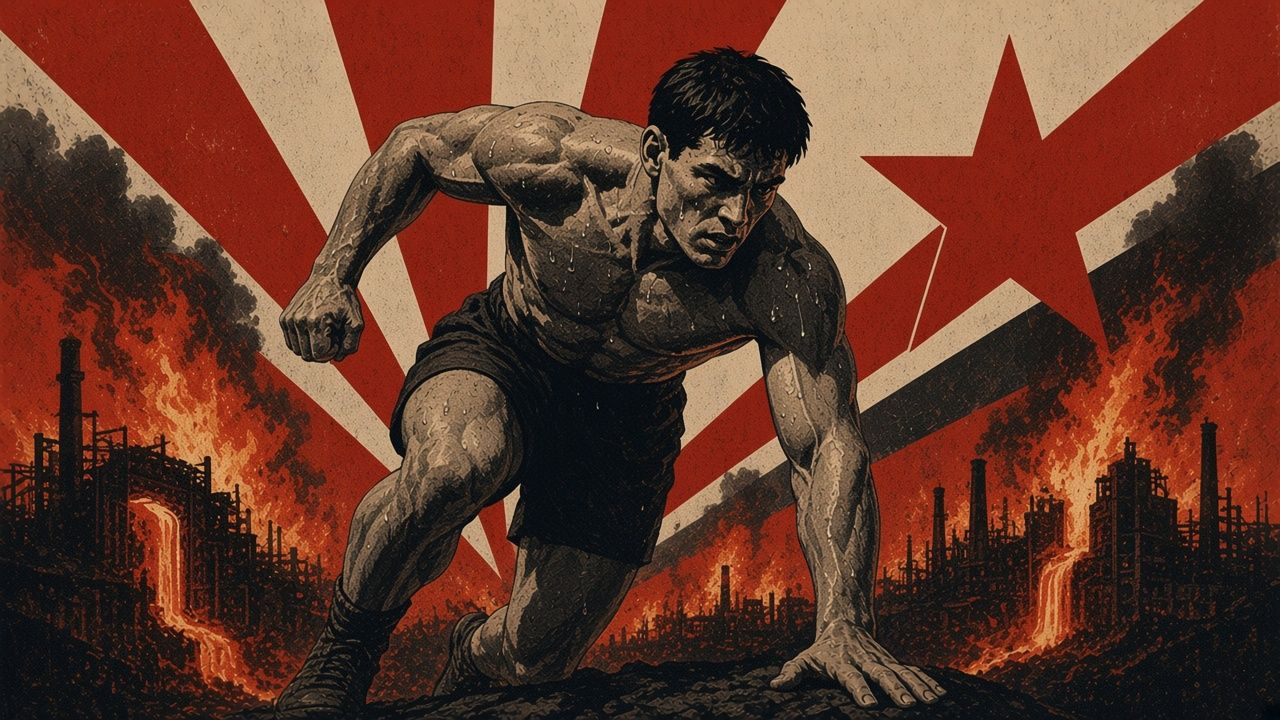
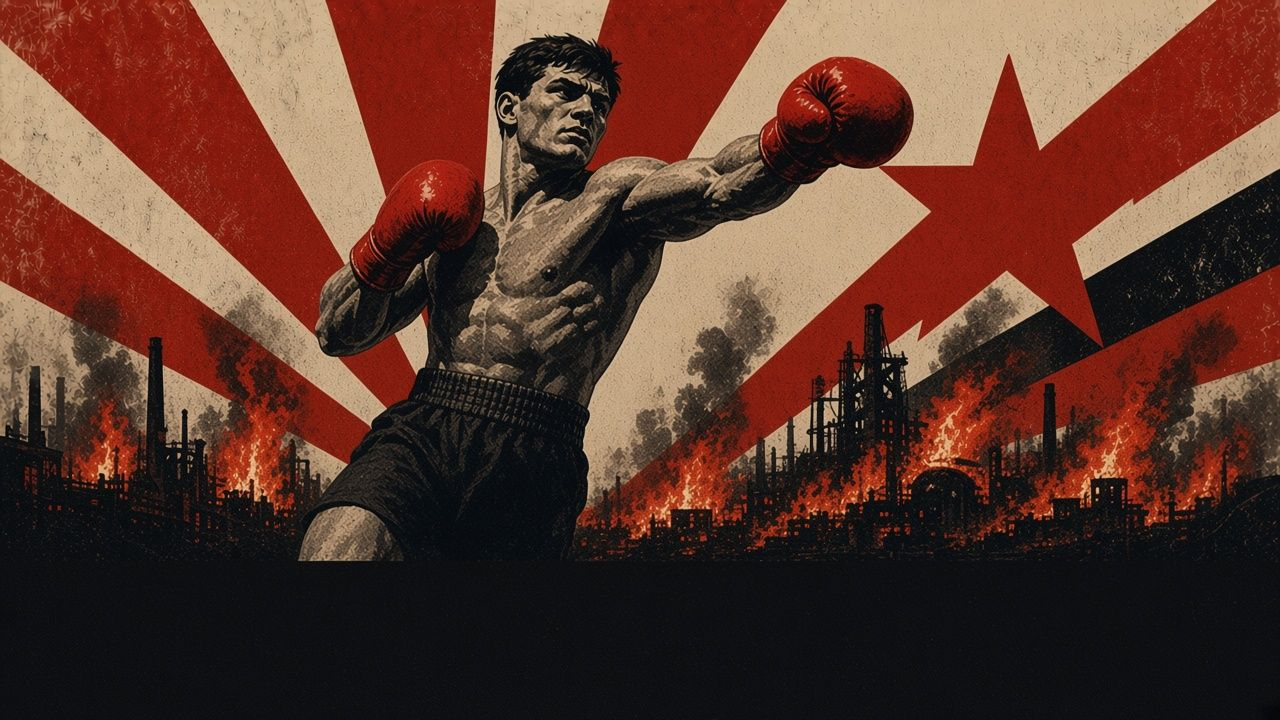
Remplacer les affiches Semaine, Calories et Programme (#8)
Les trois bandeaux passent aux nouvelles images (boxe, pompes, gainage).
Le cache passe à davai-suka-v10 pour que les téléphones les récupèrent.

diff --git a/sw.js b/sw.js
@@ -1,6 +1,6 @@
 // Service worker : mise en cache pour fonctionner hors ligne.
 // Pensez à changer CACHE_VERSION à chaque mise à jour des fichiers.
-const CACHE_VERSION = 'davai-suka-v9';
+const CACHE_VERSION = 'davai-suka-v10';
 const ASSETS = [
   './',
   './index.html',
